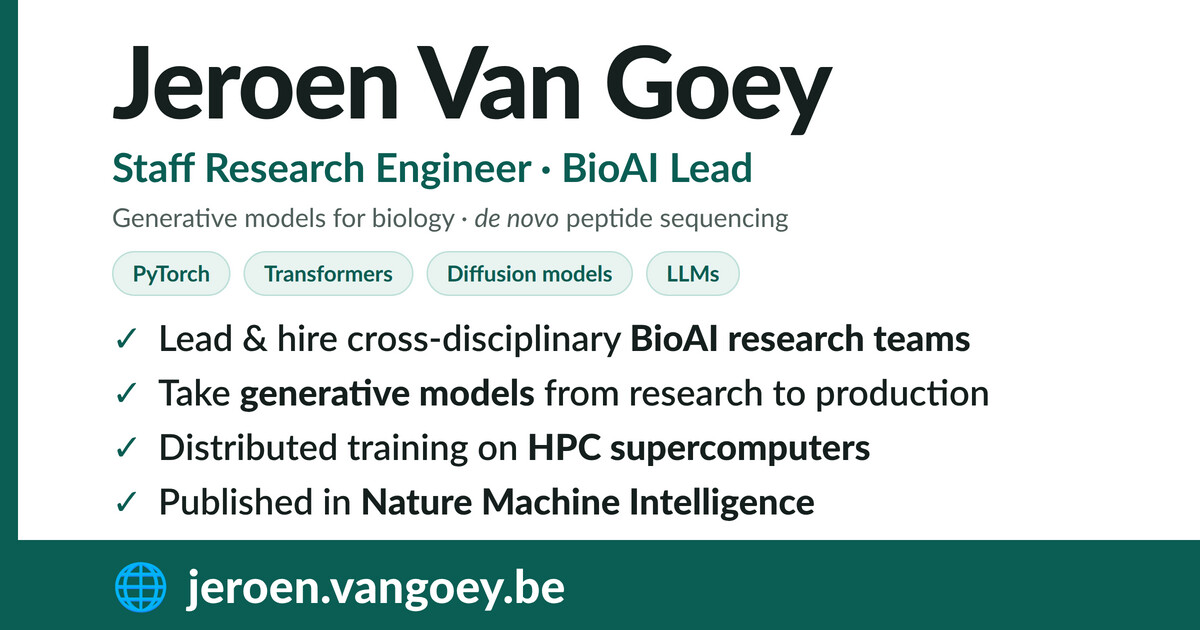
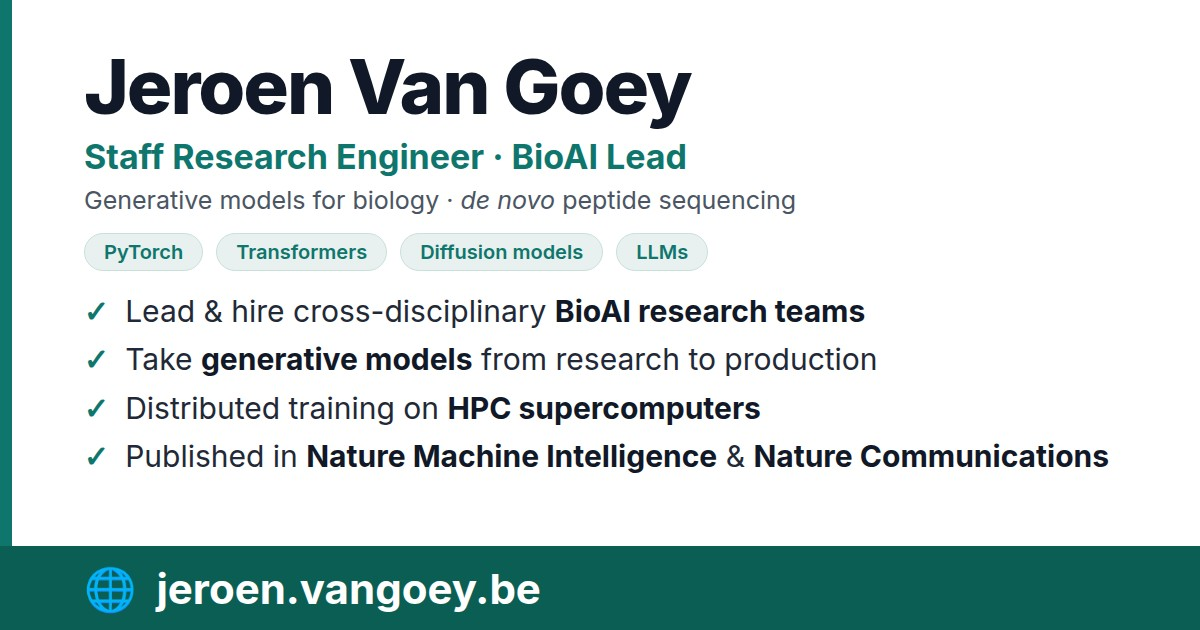
Update OG card image to include Nature Communications
The social/OG card had 'Published in Nature Machine Intelligence' baked in; the last bullet now reads 'Nature Machine Intelligence & Nature Communications' (InstaNovo-P was published in Nat Commun). Regenerated from a new reusable HTML template (images/og-card.html) rendered with headless Chrome, replacing the design-tool export that had no source.

Changed region(s): [[0.0, 0.0, 1.0, 0.9952]]

diff --git a/images/og-card.html b/images/og-card.html
@@ -1,0 +1,68 @@
+<!doctype html>
+<html lang="en">
+<head>
+<meta charset="utf-8">
+<link rel="preconnect" href="https://fonts.googleapis.com">
+<link rel="preconnect" href="https://fonts.gstatic.com" crossorigin>
+<link href="https://fonts.googleapis.com/css2?family=Inter:ital,wght@0,400;0,600;0,700;0,800;1,400;1,600&display=swap" rel="stylesheet">
+<style>
+  :root { --teal: #0f766e; --teal-dark: #0b5e54; --ink: #111827; --muted: #4b5563; }
+  * { margin: 0; padding: 0; box-sizing: border-box; }
+  html, body { margin: 0; padding: 0; background: #ffffff; }
+  .card {
+    position: relative;
+    width: 1200px;
+    height: 630px;
+    overflow: hidden;
+    background: #ffffff;
+    font-family: "Inter", system-ui, sans-serif;
+    -webkit-font-smoothing: antialiased;
+  }
+  .edge { position: absolute; top: 0; bottom: 0; left: 0; width: 12px; background: var(--teal); }
+  .content { position: absolute; top: 0; left: 0; right: 0; padding: 48px 60px 0 84px; }
+  h1 { font-size: 76px; font-weight: 800; color: var(--ink); letter-spacing: -2px; line-height: 1.02; }
+  .sub { font-size: 34px; font-weight: 700; color: var(--teal); margin-top: 10px; }
+  .tag { font-size: 25px; color: var(--muted); margin-top: 8px; }
+  .tag i { font-style: italic; }
+  .badges { display: flex; gap: 13px; margin-top: 18px; }
+  .badge {
+    font-size: 20px; font-weight: 600; color: var(--teal);
+    background: #e8f1ef; border: 1px solid #c9e0db;
+    border-radius: 999px; padding: 6px 19px;
+  }
+  ul { list-style: none; margin-top: 22px; }
+  li { font-size: 30px; color: #1f2937; margin: 11px 0; display: flex; align-items: baseline; gap: 16px; line-height: 1.25; }
+  li .check { color: var(--teal); font-weight: 700; flex: 0 0 auto; }
+  li b { font-weight: 700; color: var(--ink); }
+  .footer {
+    position: absolute; left: 0; right: 0; bottom: 0; height: 84px;
+    background: var(--teal-dark); color: #ffffff;
+    display: flex; align-items: center; gap: 20px; padding-left: 84px;
+    font-size: 42px; font-weight: 700;
+  }
+</style>
+</head>
+<body>
+  <div class="card">
+    <div class="edge"></div>
+    <div class="content">
+      <h1>Jeroen Van Goey</h1>
+      <div class="sub">Staff Research Engineer &middot; BioAI Lead</div>
+      <div class="tag">Generative models for biology &middot; <i>de novo</i> peptide sequencing</div>
+      <div class="badges">
+        <span class="badge">PyTorch</span>
+        <span class="badge">Transformers</span>
+        <span class="badge">Diffusion models</span>
+        <span class="badge">LLMs</span>
+      </div>
+      <ul>
+        <li><span class="check">&#10003;</span><span>Lead &amp; hire cross-disciplinary <b>BioAI research teams</b></span></li>
+        <li><span class="check">&#10003;</span><span>Take <b>generative models</b> from research to production</span></li>
+        <li><span class="check">&#10003;</span><span>Distributed training on <b>HPC supercomputers</b></span></li>
+        <li><span class="check">&#10003;</span><span>Published in <b>Nature Machine Intelligence</b> &amp; <b>Nature Communications</b></span></li>
+      </ul>
+    </div>
+    <div class="footer"><span>&#127760;</span><span>jeroen.vangoey.be</span></div>
+  </div>
+</body>
+</html>
